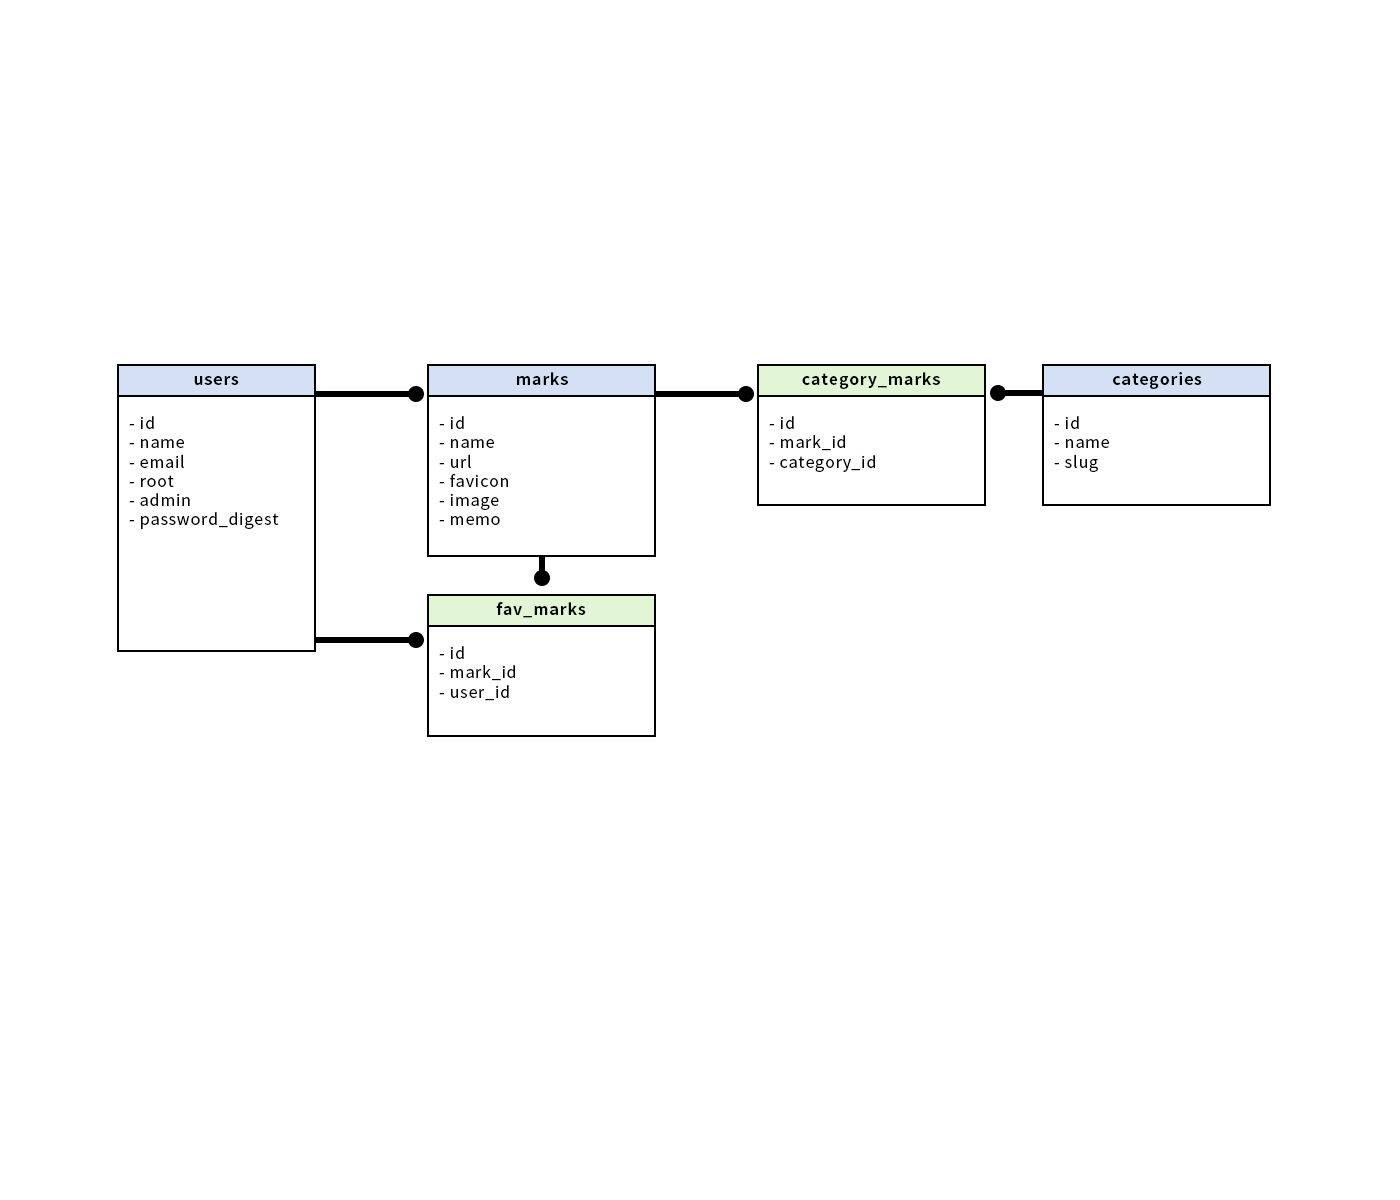
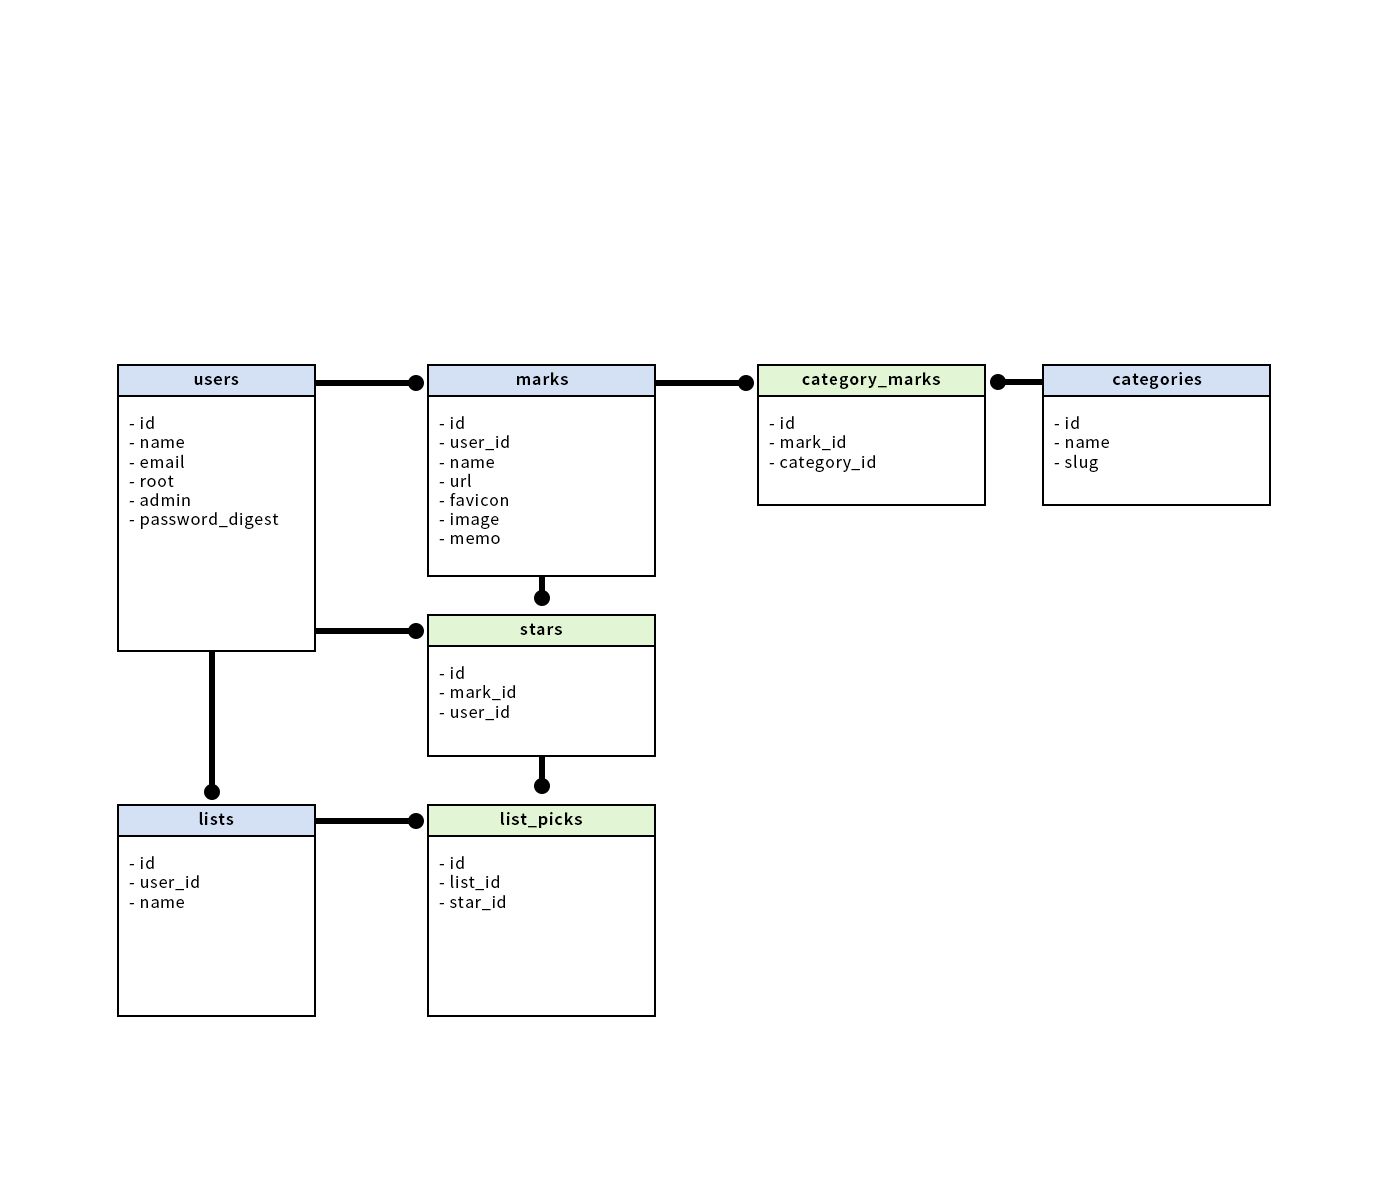
add stars

diff --git a/app/assets/stylesheets/application.scss b/app/assets/stylesheets/application.scss
@@ -85,6 +85,7 @@ main{
   li{
     width: 240px;
     list-style: none;
+    position: relative;
     .url_link{
       position: relative;
       display: block;
@@ -96,11 +97,11 @@ main{
       }
       .favicon{
         background: #fff;
-        padding: 4px;
+        padding: 8px;
         border-radius: 100%;
         position: absolute;
-        right: 0px;
-        bottom: 0px;
+        left: -4px;
+        bottom: -4px;
         box-shadow: 0px 0px 2px 2px rgba(0, 0, 0, .1);
       }
     }
@@ -117,5 +118,34 @@ main{
 }
 
 
+.add_star{
+  color: #dfdfdf;
+}
+
+.remove_star{
+  color: #f6a12e;
+}
+
+.star_btn{
+  border: 0;
+  transition: .3s;
+  padding: 0;
+  background: #fff;
+  width: 32px;
+  height: 32px;
+  text-align: center;
+  border-radius: 100%;
+  box-shadow: 0px 0px 2px 2px rgba(0, 0, 0, .1);
+  position: absolute;
+  left: 36px;
+  top: 152px;
+  font-size: 16px;
+  line-height: 1;
+}
+
+.star_btn:hover{
+  font-size: 21px;
+  transition: .3s;
+}
 
 

diff --git a/db/schema.rb b/db/schema.rb
@@ -10,7 +10,7 @@
 #
 # It's strongly recommended that you check this file into your version control system.
 
-ActiveRecord::Schema.define(version: 20190312155238) do
+ActiveRecord::Schema.define(version: 20190315132106) do
 
   create_table "marks", force: :cascade, options: "ENGINE=InnoDB DEFAULT CHARSET=utf8mb4" do |t|
     t.string "name"
@@ -24,6 +24,15 @@ ActiveRecord::Schema.define(version: 20190312155238) do
     t.index ["user_id"], name: "index_marks_on_user_id"
   end
 
+  create_table "stars", force: :cascade, options: "ENGINE=InnoDB DEFAULT CHARSET=utf8mb4" do |t|
+    t.bigint "mark_id"
+    t.bigint "user_id"
+    t.datetime "created_at", null: false
+    t.datetime "updated_at", null: false
+    t.index ["mark_id"], name: "index_stars_on_mark_id"
+    t.index ["user_id"], name: "index_stars_on_user_id"
+  end
+
   create_table "users", force: :cascade, options: "ENGINE=InnoDB DEFAULT CHARSET=utf8mb4" do |t|
     t.string "name"
     t.string "email"
@@ -35,4 +44,6 @@ ActiveRecord::Schema.define(version: 20190312155238) do
   end
 
   add_foreign_key "marks", "users"
+  add_foreign_key "stars", "marks"
+  add_foreign_key "stars", "users"
 end

diff --git a/app/controllers/stars_controller.rb b/app/controllers/stars_controller.rb
@@ -1,0 +1,27 @@
+class StarsController < ApplicationController
+  before_action :require_user_logged_in, only: [:index, :create, :destroy] 
+  
+  def index
+    if logged_in?
+      @stars = current_user.stars
+    end
+  end
+
+  def create
+    @star = current_user.stars.build(star_params)
+    @star.save!
+    redirect_back(fallback_location: root_path)
+  end
+
+  def destroy
+    @star = Star.find_by(params[:mark_id])
+    @star.destroy
+    redirect_back(fallback_location: root_path)
+  end
+  
+  private
+  
+  def star_params
+    params.permit(:mark_id, :user_id)
+  end
+end

diff --git a/app/controllers/static_pages_controller.rb b/app/controllers/static_pages_controller.rb
@@ -3,6 +3,7 @@ class StaticPagesController < ApplicationController
     if logged_in?
       @mark = current_user.marks.build
       @marks = current_user.marks.order('created_at DESC')
+      @stars = current_user.stars.order('created_at DESC')
     end
   end
   

diff --git a/db/migrate/20190315132106_create_stars.rb b/db/migrate/20190315132106_create_stars.rb
@@ -1,0 +1,10 @@
+class CreateStars < ActiveRecord::Migration[5.1]
+  def change
+    create_table :stars do |t|
+      t.references :mark, foreign_key: true
+      t.references :user, foreign_key: true
+
+      t.timestamps
+    end
+  end
+end

diff --git a/config/routes.rb b/config/routes.rb
@@ -11,4 +11,5 @@ Rails.application.routes.draw do
   
   resources :users
   resources :marks
+  resources :stars
 end

diff --git a/app/models/user.rb b/app/models/user.rb
@@ -7,4 +7,5 @@ class User < ApplicationRecord
   has_secure_password
   
   has_many :marks
+  has_many :stars
 end

diff --git a/app/models/star.rb b/app/models/star.rb
@@ -1,0 +1,4 @@
+class Star < ApplicationRecord
+  belongs_to :mark
+  belongs_to :user
+end

diff --git a/app/models/mark.rb b/app/models/mark.rb
@@ -1,3 +1,4 @@
 class Mark < ApplicationRecord
   belongs_to :user
+  has_many :stars
 end
